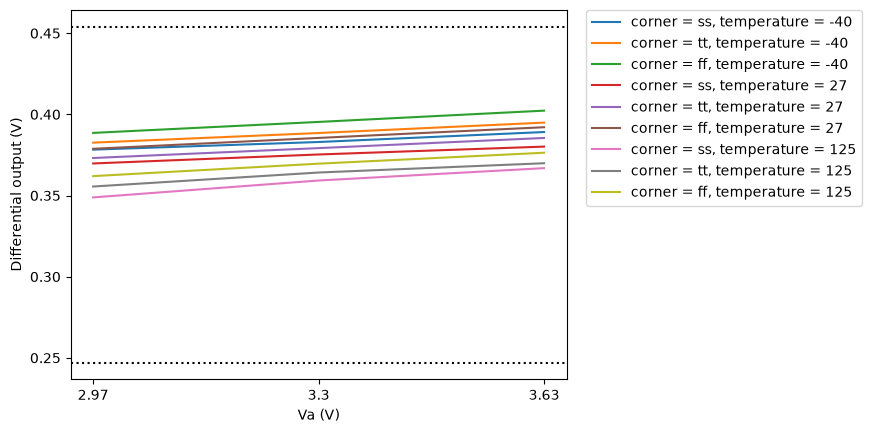
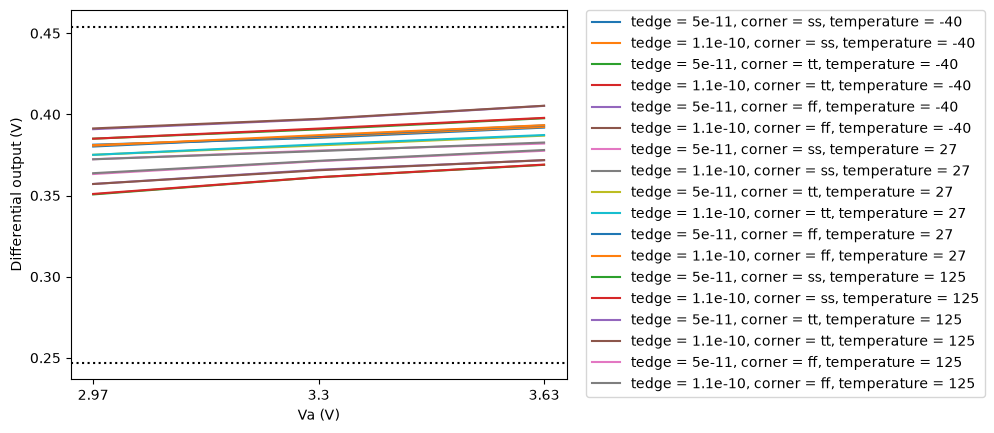
Measure the transmitter at its 1 Gb/s target, with edge rates
The bench ran at 500 Mb/s. The design target is 1 Gb/s, so the period drops to
2 ns and every figure is re-measured at the rate the block is meant to run at.
Four timing figures come out of the same simulation and cost no extra runs:
rise and fall time between 20 and 80 percent of the differential output's own
swing, the pulse skew between them, and the duty cycle.

The input edge rate is swept rather than fixed. lvds_pattern delivers 103.5 ps
falling and 112.0 ps rising into this block, so 110 ps is the in-system case;
50 ps shows what the driver does with a faster source than it will ever see.
54 points now: three corners, three temperatures, three supplies, two edge
rates. All pass.

  |Vod|      0.351 ... 0.405 V     limits 0.247 ... 0.454
  Vos        1.191 ... 1.195 V     limits 1.125 ... 1.375
  Vos p-p    0.087 typ, 0.148 max  limit 0.150
  t_rise     44.9 typ, 70.9 max ps
  t_fall     44.9 typ, 70.9 max ps
  t_skew     0.000 typ, 0.310 max ps
  duty       50.000 %
  I(3.3 V)   7.02 typ, 8.00 max mA

Two results worth acting on.

Vos,pp worst case is 148 mV against a 150 mV limit. At 500 Mb/s it was 123 mV.
The margin at the design target is 1.3 percent, which turns the two levers
measured earlier - the pre-driver's last PMOS at 36...38 um, and a common-mode
RC damper across the outputs - from an optimisation into something the design
needs. Neither is in the circuit yet.

The output edge is the driver's own, not a copy of the input. It stays between
[…]

diff --git a/macros/lvds_tx/cace/gen_template.py b/macros/lvds_tx/cace/gen_template.py
@@ -120,7 +120,27 @@ CONTROL = r""".control
     let vos_pp   = vos_max - vos_min
     let i_supply = -i_va
 
-    echo $&vod_mag $&vos_avg $&vos_pp $&i_supply > CACE\{simpath\}/CACE\{filename\}_CACE\{N\}.data
+    * Edge rates between 20 and 80 percent of the differential swing the block
+    * actually produces, not of a nominal value. The swing moves over PVT, and
+    * fixed thresholds would report that movement as an edge-rate change.
+    let v20 = vod_min + 0.2*(vod_max-vod_min)
+    let v80 = vod_min + 0.8*(vod_max-vod_min)
+    * On one line each: the + continuation is a netlist convention and does
+    * not carry into a .control block.
+    meas tran t_rise TRIG vod VAL=$&v20 TD=CACE\{tmeas\} RISE=3 TARG vod VAL=$&v80 TD=CACE\{tmeas\} RISE=3
+    meas tran t_fall TRIG vod VAL=$&v80 TD=CACE\{tmeas\} FALL=3 TARG vod VAL=$&v20 TD=CACE\{tmeas\} FALL=3
+    let t_skew = abs(t_rise - t_fall)
+
+    * Duty cycle as the fraction of time the differential output is positive.
+    * No edge indices: counting edges is what produced a skew of three whole
+    * bit periods in lvds_pattern, and a fraction cannot drift out of step.
+    let hi = vod > 0
+    * The fraction, not the percentage. CACE scales the value into the
+    * declared unit, and percent is a scaling - multiplying here as well
+    * turned a 50 percent duty cycle into 5000 percent.
+    meas tran duty AVG hi from=CACE\{tmeas\} to=CACE\{tstop\}
+
+    echo $&vod_mag $&vos_avg $&vos_pp $&i_supply $&t_rise $&t_fall $&t_skew $&duty > CACE\{simpath\}/CACE\{filename\}_CACE\{N\}.data
 .endc"""
 
 

diff --git a/macros/lvds_tx/docs/lvds_tx_schematic.md b/macros/lvds_tx/docs/lvds_tx_schematic.md
@@ -5,10 +5,14 @@
 
 |      Parameter       |         Tool         |     Result      | Min Limit  |  Min Value   | Typ Target |  Typ Value   | Max Limit  |  Max Value   |  Status  |
 | :------------------- | :------------------- | :-------------- | ---------: | -----------: | ---------: | -----------: | ---------: | -----------: | :------: |
-| Differential output  | ngspice              | vod                  |         0.247 V |    0.349 V |          any |    0.379 V |      0.454 V |    0.402 V |   Pass ✅    |
+| Differential output  | ngspice              | vod                  |         0.247 V |    0.351 V |          any |    0.381 V |      0.454 V |    0.405 V |   Pass ✅    |
 | Offset voltage       | ngspice              | vos                  |         1.125 V |    1.191 V |          any |    1.194 V |      1.375 V |    1.195 V |   Pass ✅    |
-| Offset, peak-to-peak | ngspice              | vos_pp               |                |           |          any |    0.086 V |       0.15 V |    0.123 V |   Pass ✅    |
-| Supply current       | ngspice              | i_supply             |                |           |          any |   6.138 mA |          any |   6.954 mA |   Pass ✅    |
+| Offset, peak-to-peak | ngspice              | vos_pp               |                |           |          any |    0.087 V |       0.15 V |    0.148 V |   Pass ✅    |
+| Output rise time     | ngspice              | t_rise               |                |           |          any |  44.935 ps |       300 ps |  70.924 ps |   Pass ✅    |
+| Output fall time     | ngspice              | t_fall               |                |           |          any |  44.935 ps |       300 ps |  70.924 ps |   Pass ✅    |
+| Pulse skew           | ngspice              | t_skew               |                |           |          any |   0.000 ps |       100 ps |   0.310 ps |   Pass ✅    |
+| Output duty cycle    | ngspice              | duty                 |            45 % |   50.000 % |         50 % |   50.000 % |         55 % |   50.000 % |   Pass ✅    |
+| Supply current       | ngspice              | i_supply             |                |           |          any |   7.017 mA |          any |   8.001 mA |   Pass ✅    |
 
 
 ## Plots

diff --git a/macros/lvds_tx/docs/lvds_tx.md b/macros/lvds_tx/docs/lvds_tx.md
@@ -75,30 +75,30 @@
   + Unit: uA
   + Typical: 2
 - period
-  + Description: Bit period times two - one PULSE period carries two bits
+  + Description: One PULSE period carries two bits, so this is twice the bit period. 2 ns is the 1 Gb/s design target; the bench ran at 4 ns, 500 Mb/s, until the timing figures were added.
   + Display: Period
   + Unit: ns
-  + Typical: 4
+  + Typical: 2
 - tedge
-  + Description: Input edge rate
+  + Description: Edge rate of the input pair. Swept, because the output edge is not independent of it: lvds_pattern delivers 103.5 ps falling and 112.0 ps rising into this block's load, so 110 ps is the in-system case and 50 ps shows what the driver does with a faster source than it will ever see.
   + Display: Tedge
   + Unit: ps
-  + Typical: 50
+  + Typical: 110
 - tstep
   + Description: Transient timestep
   + Display: Tstep
   + Unit: ps
   + Typical: 10
 - tstop
-  + Description: Length of the transient run
+  + Description: Length of the transient run. 400 ns is 200 bit periods at 1 Gb/s, of which the last 300 are measured.
   + Display: Tstop
   + Unit: ns
-  + Typical: 600
+  + Typical: 400
 - tmeas
   + Description: Start of the measurement window. Everything before it is the common-mode loop settling from the DC operating point, and measuring across that is how a driver that is not compliant looks compliant.
   + Display: Tmeas
   + Unit: ns
-  + Typical: 160
+  + Typical: 100
 - cmfb_ic
   + Description: Initial condition on the CMFB node, near its settled value
   + Display: CMFB ic
